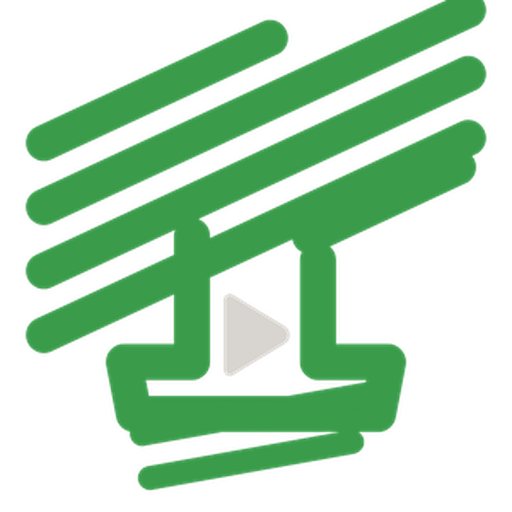
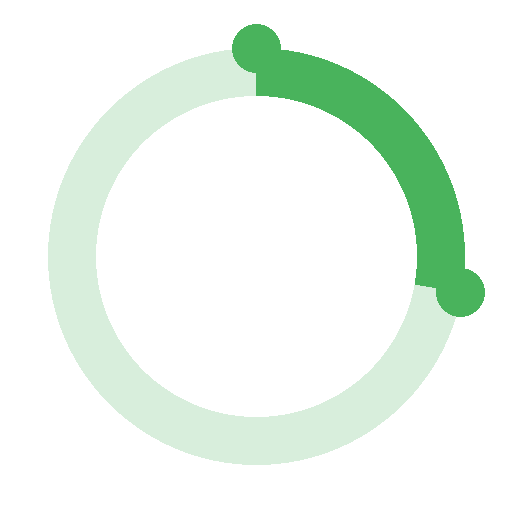
update lumyn-cast-loading.png for cast ui look in site

diff --git a/site/lumyn-cast.css b/site/lumyn-cast.css
@@ -23,7 +23,9 @@ cast-media-player {
   --splash-image: url("https://piyushdoorwar.github.io/lumyn-media-player/assets/lumyn-cast-splash.png");
   --splash-size: 176px 176px;
   --spinner-image: url("https://piyushdoorwar.github.io/lumyn-media-player/assets/lumyn-cast-loading.png");
+  --spinner-size: 72px 72px;
   --buffering-image: url("https://piyushdoorwar.github.io/lumyn-media-player/assets/lumyn-cast-loading.png");
+  --buffering-size: 72px 72px;
   --watermark-image: url("https://piyushdoorwar.github.io/lumyn-media-player/assets/lumyn-cast-watermark.png");
   --watermark-size: 56px 56px;
 }